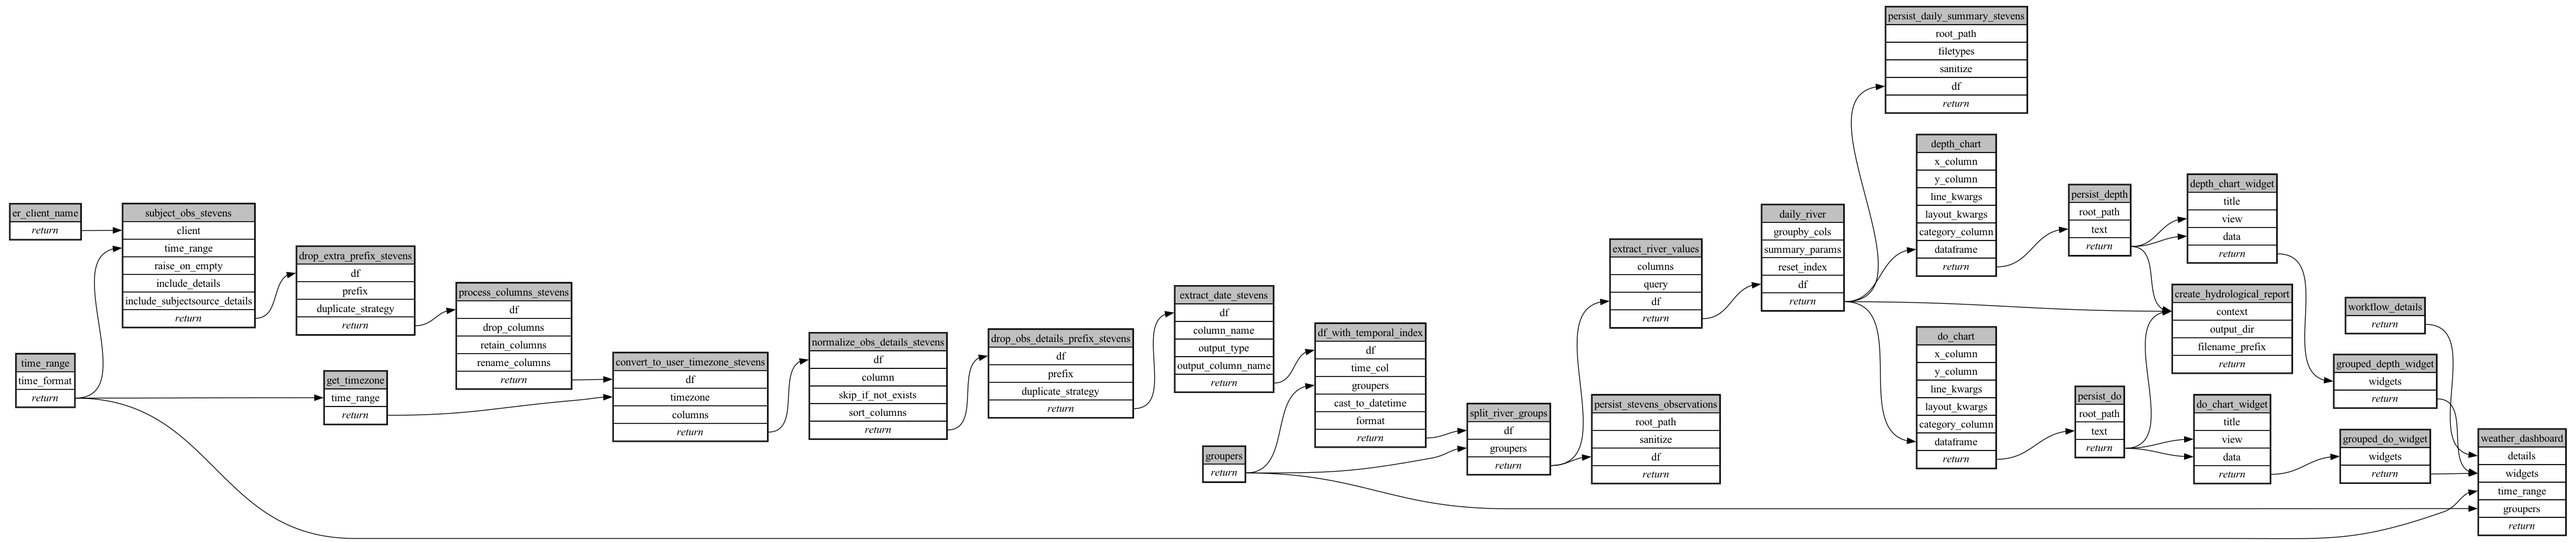
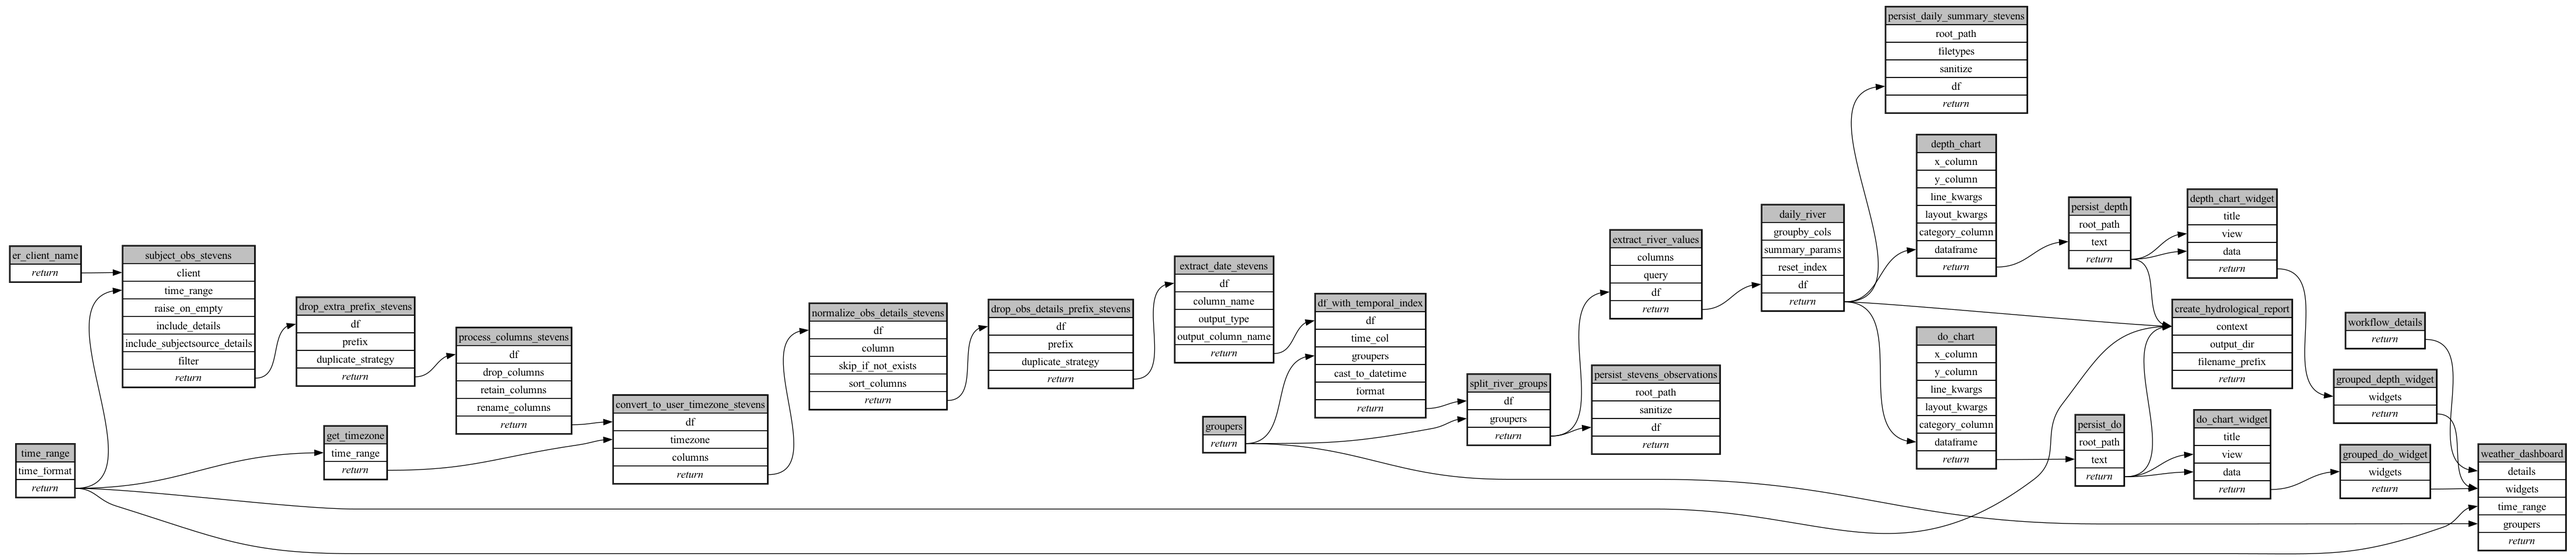
timerange

diff --git a/ecoscope-workflows-hydrological-monitoring-workflow/ecoscope_workflows_hydrological_monitoring_workflow/formdata.py b/ecoscope-workflows-hydrological-monitoring-workflow/ecoscope_workflows_hydrological_monitoring_workflow/formdata.py
@@ -18,14 +18,6 @@ class WorkflowDetails(BaseModel):
     description: Optional[str] = Field("", title="Workflow Description")
 
 
-class Filter(str, Enum):
-    all = "all"
-    clean = "clean"
-    manually_filtered = "manually_filtered"
-    automatically_filtered = "automatically_filtered"
-    manually_and_automatically_filtered = "manually_and_automatically_filtered"
-
-
 class SubjectObsStevens(BaseModel):
     model_config = ConfigDict(
         extra="forbid",
@@ -34,11 +26,6 @@ class SubjectObsStevens(BaseModel):
         ...,
         description="⚠ The use of a group with mixed subtypes could lead to unexpected results",
         title="Subject Group Name",
-    )
-    filter: Optional[Filter] = Field(
-        "clean",
-        description="Filter observations based on exclusion flags.",
-        title="Filter",
     )
 
 
@@ -70,17 +57,6 @@ class PersistDailySummaryStevens(BaseModel):
         "daily_summary",
         description="            Optional filename prefix to persist text to within the `root_path`.\n            We will always add a suffix based on the dataframe content hash to avoid duplicates.\n            ",
         title="Filename Prefix",
-    )
-
-
-class CreateHydrologicalReport(BaseModel):
-    model_config = ConfigDict(
-        extra="forbid",
-    )
-    template_path: str = Field(
-        ...,
-        description="Path to the Word template (.docx) file with Jinja2 placeholders",
-        title="Template Path",
     )
 
 
@@ -139,6 +115,10 @@ class SmoothingConfig(BaseModel):
     )
 
 
+class AllGrouper(BaseModel):
+    index_name: Optional[str] = Field("All", title="Index Name")
+
+
 class TimeRange(BaseModel):
     model_config = ConfigDict(
         extra="forbid",
@@ -189,6 +169,24 @@ class DoChart(BaseModel):
         None,
         description="Configuration for line smoothing. When set, creates a smoothed line with original data point markers.",
         title="Smoothing",
+    )
+
+
+class CreateHydrologicalReport(BaseModel):
+    model_config = ConfigDict(
+        extra="forbid",
+    )
+    template_path: str = Field(
+        ...,
+        description="Path or URL to the Word template (.docx) file with Jinja2 placeholders. Supports local paths and remote URLs (http://, https://).",
+        title="Template Path",
+    )
+    groupers: Optional[
+        Union[AllGrouper, List[Union[ValueGrouper, TemporalGrouper, SpatialGrouper]]]
+    ] = Field(
+        None,
+        description="            Optional groupers for sorting grouped items. When provided, grouped items\n            are sorted using the grouper's sort_key (e.g., months in calendar order).\n            If not provided, items are sorted alphabetically by filter string.\n            ",
+        title="Groupers",
     )
 
 

diff --git a/ecoscope-workflows-hydrological-monitoring-workflow/ecoscope_workflows_hydrological_monitoring_workflow/params.py b/ecoscope-workflows-hydrological-monitoring-workflow/ecoscope_workflows_hydrological_monitoring_workflow/params.py
@@ -18,14 +18,6 @@ class WorkflowDetails(BaseModel):
     description: Optional[str] = Field("", title="Workflow Description")
 
 
-class Filter(str, Enum):
-    all = "all"
-    clean = "clean"
-    manually_filtered = "manually_filtered"
-    automatically_filtered = "automatically_filtered"
-    manually_and_automatically_filtered = "manually_and_automatically_filtered"
-
-
 class SubjectObsStevens(BaseModel):
     model_config = ConfigDict(
         extra="forbid",
@@ -34,11 +26,6 @@ class SubjectObsStevens(BaseModel):
         ...,
         description="⚠ The use of a group with mixed subtypes could lead to unexpected results",
         title="Subject Group Name",
-    )
-    filter: Optional[Filter] = Field(
-        "clean",
-        description="Filter observations based on exclusion flags.",
-        title="Filter",
     )
 
 
@@ -70,17 +57,6 @@ class PersistDailySummaryStevens(BaseModel):
         None,
         description="            Optional filename prefix to persist text to within the `root_path`.\n            We will always add a suffix based on the dataframe content hash to avoid duplicates.\n            ",
         title="Filename Prefix",
-    )
-
-
-class CreateHydrologicalReport(BaseModel):
-    model_config = ConfigDict(
-        extra="forbid",
-    )
-    template_path: str = Field(
-        ...,
-        description="Path to the Word template (.docx) file with Jinja2 placeholders",
-        title="Template Path",
     )
 
 
@@ -139,6 +115,10 @@ class SmoothingConfig(BaseModel):
     )
 
 
+class AllGrouper(BaseModel):
+    index_name: Optional[str] = Field("All", title="Index Name")
+
+
 class TimeRange(BaseModel):
     model_config = ConfigDict(
         extra="forbid",
@@ -189,6 +169,24 @@ class DoChart(BaseModel):
         None,
         description="Configuration for line smoothing. When set, creates a smoothed line with original data point markers.",
         title="Smoothing",
+    )
+
+
+class CreateHydrologicalReport(BaseModel):
+    model_config = ConfigDict(
+        extra="forbid",
+    )
+    template_path: str = Field(
+        ...,
+        description="Path or URL to the Word template (.docx) file with Jinja2 placeholders. Supports local paths and remote URLs (http://, https://).",
+        title="Template Path",
+    )
+    groupers: Optional[
+        Union[AllGrouper, List[Union[ValueGrouper, TemporalGrouper, SpatialGrouper]]]
+    ] = Field(
+        None,
+        description="            Optional groupers for sorting grouped items. When provided, grouped items\n            are sorted using the grouper's sort_key (e.g., months in calendar order).\n            If not provided, items are sorted alphabetically by filter string.\n            ",
+        title="Groupers",
     )
 
 

diff --git a/ecoscope-workflows-hydrological-monitoring-workflow/ecoscope_workflows_hydrological_monitoring_workflow/dags/run_async.py b/ecoscope-workflows-hydrological-monitoring-workflow/ecoscope_workflows_hydrological_monitoring_workflow/dags/run_async.py
@@ -85,7 +85,12 @@ def main(params: Params):
         "persist_do": ["do_chart"],
         "do_chart_widget": ["persist_do"],
         "grouped_do_widget": ["do_chart_widget"],
-        "create_hydrological_report": ["persist_depth", "persist_do", "daily_river"],
+        "create_hydrological_report": [
+            "time_range",
+            "persist_depth",
+            "persist_do",
+            "daily_river",
+        ],
         "weather_dashboard": [
             "workflow_details",
             "grouped_depth_widget",
@@ -150,6 +155,7 @@ def main(params: Params):
                 "raise_on_empty": True,
                 "include_details": True,
                 "include_subjectsource_details": True,
+                "filter": "none",
             }
             | (params_dict.get("subject_obs_stevens") or {}),
             method="call",
@@ -543,9 +549,9 @@ def main(params: Params):
                 "context": {
                     "items": [
                         {
-                            "item_type": "text",
+                            "item_type": "timerange",
                             "key": "report_date",
-                            "value": "December 2025",
+                            "value": DependsOn("time_range"),
                         },
                         {
                             "item_type": "image",

diff --git a/ecoscope-workflows-hydrological-monitoring-workflow/ecoscope_workflows_hydrological_monitoring_workflow/dags/run_async_mock_io.py b/ecoscope-workflows-hydrological-monitoring-workflow/ecoscope_workflows_hydrological_monitoring_workflow/dags/run_async_mock_io.py
@@ -99,7 +99,12 @@ def main(params: Params):
         "persist_do": ["do_chart"],
         "do_chart_widget": ["persist_do"],
         "grouped_do_widget": ["do_chart_widget"],
-        "create_hydrological_report": ["persist_depth", "persist_do", "daily_river"],
+        "create_hydrological_report": [
+            "time_range",
+            "persist_depth",
+            "persist_do",
+            "daily_river",
+        ],
         "weather_dashboard": [
             "workflow_details",
             "grouped_depth_widget",
@@ -164,6 +169,7 @@ def main(params: Params):
                 "raise_on_empty": True,
                 "include_details": True,
                 "include_subjectsource_details": True,
+                "filter": "none",
             }
             | (params_dict.get("subject_obs_stevens") or {}),
             method="call",
@@ -557,9 +563,9 @@ def main(params: Params):
                 "context": {
                     "items": [
                         {
-                            "item_type": "text",
+                            "item_type": "timerange",
                             "key": "report_date",
-                            "value": "December 2025",
+                            "value": DependsOn("time_range"),
                         },
                         {
                             "item_type": "image",

diff --git a/ecoscope-workflows-hydrological-monitoring-workflow/ecoscope_workflows_hydrological_monitoring_workflow/dags/jupytext.py b/ecoscope-workflows-hydrological-monitoring-workflow/ecoscope_workflows_hydrological_monitoring_workflow/dags/jupytext.py
@@ -163,7 +163,6 @@ er_client_name = (
 
 subject_obs_stevens_params = dict(
     subject_group_name=...,
-    filter=...,
 )
 
 # %%
@@ -180,6 +179,7 @@ subject_obs_stevens = (
         raise_on_empty=True,
         include_details=True,
         include_subjectsource_details=True,
+        filter="none",
         **subject_obs_stevens_params,
     )
     .call()
@@ -759,6 +759,7 @@ grouped_do_widget = (
 
 create_hydrological_report_params = dict(
     template_path=...,
+    groupers=...,
 )
 
 # %%
@@ -772,7 +773,7 @@ create_hydrological_report = (
     .partial(
         context={
             "items": [
-                {"item_type": "text", "key": "report_date", "value": "December 2025"},
+                {"item_type": "timerange", "key": "report_date", "value": time_range},
                 {
                     "item_type": "image",
                     "key": "depth_chart",

diff --git a/ecoscope-workflows-hydrological-monitoring-workflow/ecoscope_workflows_hydrological_monitoring_workflow/dags/run_sequential.py b/ecoscope-workflows-hydrological-monitoring-workflow/ecoscope_workflows_hydrological_monitoring_workflow/dags/run_sequential.py
@@ -106,6 +106,7 @@ def main(params: Params):
             raise_on_empty=True,
             include_details=True,
             include_subjectsource_details=True,
+            filter="none",
             **(params_dict.get("subject_obs_stevens") or {}),
         )
         .call()
@@ -431,9 +432,9 @@ def main(params: Params):
             context={
                 "items": [
                     {
-                        "item_type": "text",
+                        "item_type": "timerange",
                         "key": "report_date",
-                        "value": "December 2025",
+                        "value": time_range,
                     },
                     {
                         "item_type": "image",

diff --git a/ecoscope-workflows-hydrological-monitoring-workflow/ecoscope_workflows_hydrological_monitoring_workflow/dags/run_sequential_mock_io.py b/ecoscope-workflows-hydrological-monitoring-workflow/ecoscope_workflows_hydrological_monitoring_workflow/dags/run_sequential_mock_io.py
@@ -120,6 +120,7 @@ def main(params: Params):
             raise_on_empty=True,
             include_details=True,
             include_subjectsource_details=True,
+            filter="none",
             **(params_dict.get("subject_obs_stevens") or {}),
         )
         .call()
@@ -445,9 +446,9 @@ def main(params: Params):
             context={
                 "items": [
                     {
-                        "item_type": "text",
+                        "item_type": "timerange",
                         "key": "report_date",
-                        "value": "December 2025",
+                        "value": time_range,
                     },
                     {
                         "item_type": "image",

diff --git a/ecoscope-workflows-hydrological-monitoring-workflow/README.md b/ecoscope-workflows-hydrological-monitoring-workflow/README.md
@@ -5,20 +5,20 @@
 
 ```yaml
 # fingerprint:
-artifacts_sha256_basic: 6a3d4cbde825b54fb4c7e14e6fc04aeb4e96fbc9aeb6c948af536d7333d0d6cb
-artifacts_sha256_strict: 728f51f5827497c9bbae29142d5ad53809618d92a6c08aeb401a260811c3e9e9
+artifacts_sha256_basic: cceec12008551af69b3503675fa16ce7ccd91ffa594c7384f9e2096bea9d8ce8
+artifacts_sha256_strict: 8178ea7ac4ef0a663f0a11f404213eea1a3014f5b3370bf9a0ef1dbe9d43d863
 installed_requirements:
 - channel: https://repo.prefix.dev/ecoscope-workflows/
   name: ecoscope-workflows-core
   version: {version: ==0.21.0}
 - channel: https://repo.prefix.dev/ecoscope-workflows/
   name: ecoscope-workflows-ext-ecoscope
-  version: {version: ==0.22.2.dev2+ga561c4bbb.d20260206}
+  version: {version: ==0.22.2.dev14+g1afefb378.d20260210}
 - channel: https://repo.prefix.dev/ecoscope-workflows-custom/
   name: ecoscope-workflows-ext-custom
-  version: {version: ==0.0.19}
-params_sha256: 488c9fde438dc773ba1da30950f874aff1cb75c0eca2d6c101af4d5805e33b39
-spec_sha256: 4516281978fc0483054b9efad4c50761e31b47dba3deccdeccefcf6ac3bb5579
+  version: {version: ==0.0.24.dev12+g3666a7683.d20260209}
+params_sha256: 9e16bf1c0a8b6f20eee18266b4537626a9b61f572dabe8a18d8038137a98bd50
+spec_sha256: 9d2796f2c3adf367b349f922d8a0b9547132db8943208d8f60d2a1d9efe9a4b7
 
 ```
 
